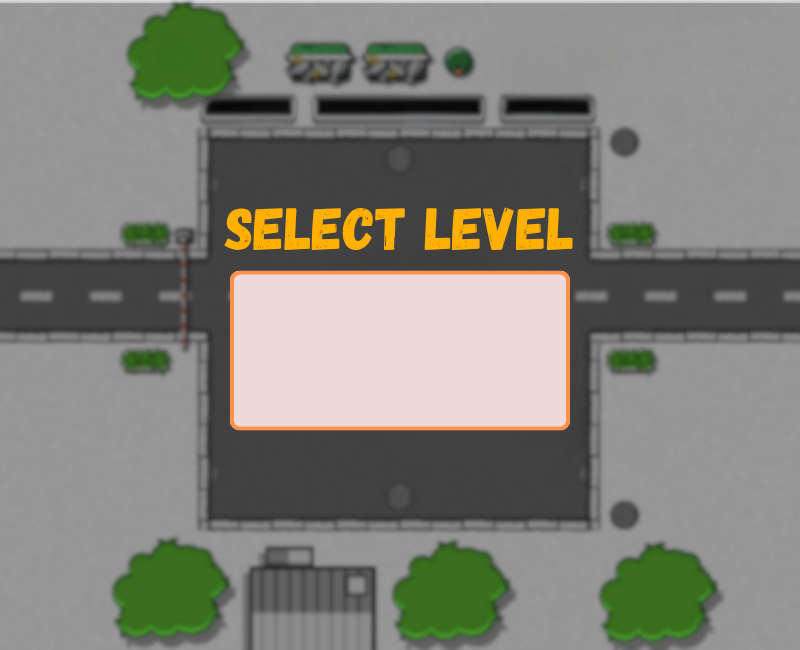
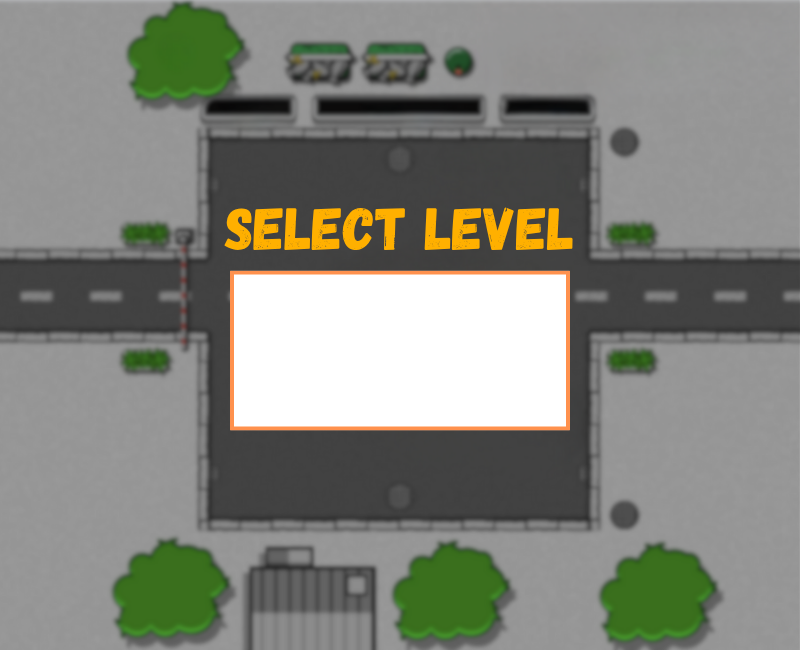
GUI upgrade, design for algorithm selector

Changed region(s): [[0.2812, 0.4, 0.7188, 0.6769], [0.0, 0.0, 1.0, 0.0308]]

diff --git a/Source/main.py b/Source/main.py
@@ -1,3 +1,4 @@
+# Import necessary libraries and modules
 import pygame
 import sys
 import button
@@ -21,6 +22,9 @@ background = pygame.transform.scale(background, (WIDTH, HEIGHT))
 level_background = pygame.image.load("Images/Levels/select_level_background.png")
 level_background = pygame.transform.scale(level_background, (WIDTH, HEIGHT))
 
+select_algo_background = pygame.image.load("Images/Algorithms/select_algo_background.png")
+select_algo_background = pygame.transform.scale(select_algo_background, (WIDTH - 350, HEIGHT - 450))
+
 # Set up welcome message with fade effect
 text_surface = FONT.render("Click on the screen to start the game", True, (255, 255, 255))
 text_surface = text_surface.convert_alpha()
@@ -29,7 +33,7 @@ text_rect = text_surface.get_rect(center = (398, 360))
 alpha = 0
 fade_speed = 3
 
-# Game state flags
+# Game state flags (used for tracking game state transitions)
 state_game_flag = False
 game_started_flag = False
 paused_game_flag = False
@@ -38,7 +42,7 @@ reset_game_flag = False
 start_solve_flag = False
 should_load_level_flag = False
 
-# Selection variables
+# Variables to store user selections
 selected_level = None
 selected_algorithm = None
 current_solver = None
@@ -46,12 +50,12 @@ show_algo_selector = False
 board_renderer = None
 list_boardgame = []
 current_step_index = 0
-#
 final_move = 1
 
 # Toggle pause/resume and update icon
 def toggle_pause():
     global paused_game_flag
+    print("Pause/Play game pressed")
     paused_game_flag = not paused_game_flag
     pause_button.set_icon("Images/Buttons/play.png" if paused_game_flag else "Images/Buttons/pause.png")
 
@@ -80,9 +84,10 @@ def is_reset():
 # Display algorithm selection overlay
 def select_algorithm():
     global show_algo_selector
+    print("Algorithms selector pressed")
     show_algo_selector = True
 
-# Handle algorithm button selection
+# Handle algorithm button selection and initiate solving
 def select_algorithm_callback(algo_func):
     global current_solver, show_algo_selector, start_solve_flag, selected_algorithm, list_boardgame, current_step_index
     print(f"Selected algorithm: {algo_func.__name__}")
@@ -90,33 +95,42 @@ def select_algorithm_callback(algo_func):
     selected_algorithm = algo_func
     show_algo_selector = False
 
+    # Run selected algorithm and store the board states
     if board_renderer:
         file_name = f"Map/gameboard{selected_level}.json"
         gameboard = helpFunctions.load_gameboard(file_name)
 
         if algo_func.__name__ == 'dls_algorithm':
             list_boardgame = current_solver(gameboard, config.MAX_LIMIT)
-
         else:
             list_boardgame = current_solver(gameboard)
 
         current_step_index = 0
         start_solve_flag = True
 
-# Create algorithm selection buttons
+# Create buttons for selecting search algorithms
 algorithm_buttons = []
 def create_algorithm_buttons(font):
     global algorithm_buttons
-    algorithms = [("BFS", bfs_algorithm), ("DLS", dls_algorithm), ("A*", A_star_algorithm), ("UCS", ucs_algorithm)]
-    start_x, start_y, width, height, gap = 260, 250, 280, 50, 65
+    algorithms = ["BFS", "DLS", "UCS", "A STAR"]
+    start_x, start_y = 210, 330  # Position to center the row
+    width, height, gap = 80, 60, 100
 
     buttons = []
-    for i, (name, func) in enumerate(algorithms):
-        def make_callback(f):
-            return lambda: select_algorithm_callback(f)
-        
-        btn = button.Button(start_x, start_y + i * gap, width, height, text = name, 
-                            callback = make_callback(func), font = font)
+    for i, name in enumerate(algorithms):
+        x = start_x + i * gap
+        y = start_y
+
+        # Wrap callback in closure to capture algorithm correctly
+        def make_callback(algo_name):
+            def callback():
+                func_map = {"BFS": bfs_algorithm, "DLS": dls_algorithm, 
+                            "A STAR": A_star_algorithm, "UCS": ucs_algorithm}
+                select_algorithm_callback(func_map[algo_name])
+            return callback
+
+        btn = button.Button(x, y, width, height, "", callback = make_callback(name),
+                            font=font, icon_path = f"Images/Algorithms/{name}.png")
         buttons.append(btn)
 
     algorithm_buttons = buttons
@@ -139,13 +153,20 @@ def is_close():
     global close_game_flag
     return close_game_flag
 
-# Create control buttons
-close_button = button.Button(720, 20, 64, 64, "", close_game, FONT, "Images/Buttons/close.png")
-pause_button = button.Button(640, 20, 64, 64, "", toggle_pause, FONT, "Images/Buttons/pause.png")
-reset_button = button.Button(560, 20, 64, 64, "", reset_game, FONT, "Images/Buttons/reset.png")
-select_algo_button = button.Button(480, 20, 64, 64, "", select_algorithm, FONT, "Images/Buttons/choice.png")
+# Close algorithm selector dialog
+def hide_algo_selector():
+    global show_algo_selector
+    print("Close algorithms selector pressed")
+    show_algo_selector = False
 
-# Generate level selection buttons
+# Create control buttons (pause, reset, close, algorithm selection)
+close_algo_selector_button = button.Button(590, 210, 50, 50, "", lambda: hide_algo_selector(), FONT, "Images/Algorithms/close_algo_selector.png")
+close_button = button.Button(720, 20, 50, 50, "", close_game, FONT, "Images/Buttons/close.png")
+pause_button = button.Button(660, 20, 50, 50, "", toggle_pause, FONT, "Images/Buttons/pause.png")
+reset_button = button.Button(600, 20, 50, 50, "", reset_game, FONT, "Images/Buttons/reset.png")
+select_algo_button = button.Button(540, 20, 50, 50, "", select_algorithm, FONT, "Images/Buttons/choice.png")
+
+# Generate level selection buttons (1-10)
 def create_level_buttons(font, callback):
     buttons = []
     start_x, start_y, width, height, gap, columns = 255, 295, 50, 50, 60, 5
@@ -176,6 +197,7 @@ if __name__ == "__main__":
     clock = pygame.time.Clock()
     running = True
     while running:
+        # Handle user input
         for event in pygame.event.get():
             if event.type == pygame.QUIT:
                 running = False
@@ -184,40 +206,39 @@ if __name__ == "__main__":
                 if not state_game_flag:
                     state_game_flag = True
                     continue
-            
+
+            # Event handling based on game state
             if state_game_flag and selected_level is None:
                 for btn in level_buttons:
                     btn.handle_event(event)
 
             if show_algo_selector:
+                close_algo_selector_button.handle_event(event)
                 for btn in algorithm_buttons:
                     btn.handle_event(event)
-                    
+
             if not show_algo_selector:
                 pause_button.handle_event(event)
                 reset_button.handle_event(event)
                 select_algo_button.handle_event(event)
                 close_button.handle_event(event)
 
-        # Show welcome screen
+        # Show welcome screen with fading text
         if not state_game_flag:
             SCREEN.blit(background, (0, 0))
             alpha += fade_speed
-
             if alpha >= 255 or alpha <= 0:
                 fade_speed = -fade_speed
-
             text_surface.set_alpha(alpha)
             SCREEN.blit(text_surface, text_rect)
 
-        # Show level selection screen
+        # Level selection screen
         elif selected_level is None:
             SCREEN.blit(level_background, (0, 0))
-
             for btn in level_buttons:
                 btn.draw(SCREEN)
 
-        # Load level when flagged
+        # Load level and render board
         elif should_load_level_flag and selected_level is not None:
             file_name = f"Map/gameboard{selected_level}.json"
             gameboard = helpFunctions.load_gameboard(file_name)
@@ -232,7 +253,7 @@ if __name__ == "__main__":
             close_button.draw(SCREEN)
             pygame.display.flip()
 
-        # Run simulation if board is ready
+        # Main game simulation loop
         elif board_renderer:
             SCREEN.blit(background, (0, 0))
 
@@ -242,15 +263,17 @@ if __name__ == "__main__":
                     board_renderer.update(list_boardgame[current_step_index])
                     current_step_index += 1
                     pygame.time.delay(250)
+
                 else:
+                    # Final animation for winning condition
                     if final_move < 6:
                         board_renderer.update_main_vehicle_final_animation(list_boardgame[current_step_index - 1], final_move)
                         final_move += 1
-                        pygame.time.delay(100)
+                        pygame.time.delay(120)
                     else:
                         final_move = 1
 
-            # Always draw current board state and controls
+            # Draw board and control buttons
             board_renderer.draw(SCREEN)
             pause_button.draw(SCREEN)
             reset_button.draw(SCREEN)
@@ -263,19 +286,20 @@ if __name__ == "__main__":
             overlay.set_alpha(180)
             overlay.fill((0, 0, 0))
             SCREEN.blit(overlay, (0, 0))
-            pygame.draw.rect(SCREEN, (255, 255, 255), (240, 220, 320, 300), border_radius=10)
-            title = FONT.render("Select Algorithm", True, (0, 0, 0))
-            SCREEN.blit(title, (WIDTH // 2 - title.get_width() // 2, 230))
-            
+
+            bg_x = (WIDTH - select_algo_background.get_width()) // 2
+            bg_y = (HEIGHT - select_algo_background.get_height()) // 2
+            SCREEN.blit(select_algo_background, (bg_x, bg_y))
+            close_algo_selector_button.draw(SCREEN)
             for btn in algorithm_buttons:
                 btn.draw(SCREEN)
 
-        # If reset is requested, reload board
+        # Check if reset is triggered
         if is_reset():
             should_load_level_flag = True
             start_solve_flag = False
 
-        # If game is closed, reset board and selections
+        # Check if close is triggered
         if is_close():
             should_load_level_flag = False
             start_solve_flag = False
